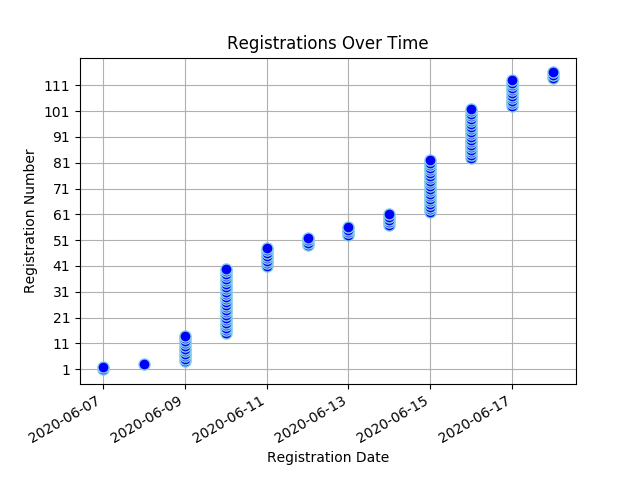
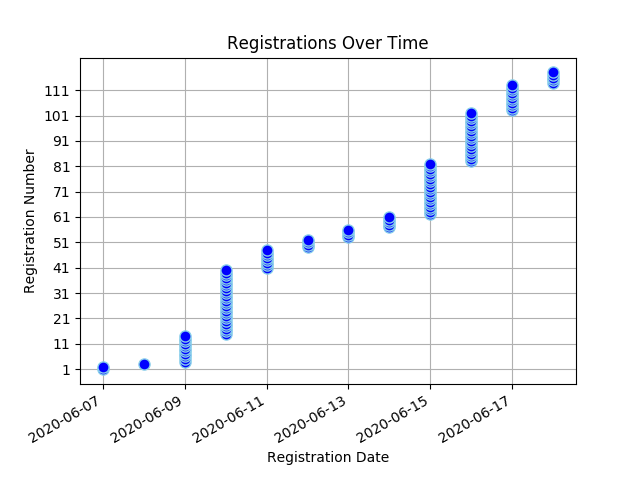
Registree stats backup on Thu Jun 18 13:21:26 SAST 2020

Changed region(s): [[0.0625, 0.1562, 0.9062, 0.7812], [0.8438, 0.1562, 0.875, 0.1875], [0.0625, 0.6562, 0.0938, 0.6875]]

diff --git a/content/virtual_conf_stats/_index.md b/content/virtual_conf_stats/_index.md
@@ -16,7 +16,7 @@ draft: false
 </head>
 <body>
 <h1 style="color: #000000;">Virtual Convention Registration Stats</h1>
-<ul><li><strong>Number of Registrees</strong>: 116</li>
+<ul><li><strong>Number of Registrees</strong>: 118</li>
 </ul><a href="/docs/virtual_convention_stats.csv">Download registration details here</a>
 <h2>Registrees</h2>
 <table id="registreeTable" class="tablesorter" border="1" padding=1>
@@ -76,8 +76,10 @@ Club
 <tr><td>kunfermann, ernst</td><td>durban north</td></tr>
 <tr><td>Kuni, Dylin</td><td>Table View</td></tr>
 <tr><td>Lakay, Bevil</td><td>Mitchell's Plain</td></tr>
+<tr><td>Lamont, Margaret</td><td>Klerksdorp</td></tr>
 <tr><td>Lang, James</td><td>The Lions Club of Gordon's Bay</td></tr>
 <tr><td>Lang, Paula</td><td>Gordons Bay</td></tr>
+<tr><td>le Roux, Jeanette</td><td>GONUBIE</td></tr>
 <tr><td>Love, Dee</td><td>Cowies Hill</td></tr>
 <tr><td>MACROBERT, PAM</td><td>LIONS CLUB OF GROOTE SCHUUR</td></tr>
 <tr><td>Marchant, Richard</td><td>The Wilds - Johannesburg</td></tr>
